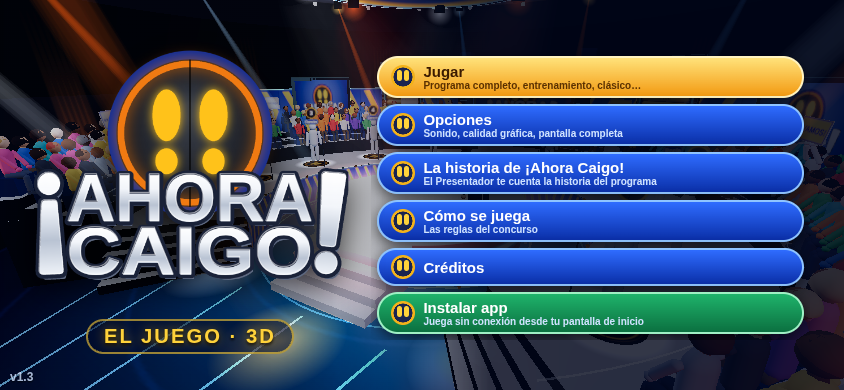
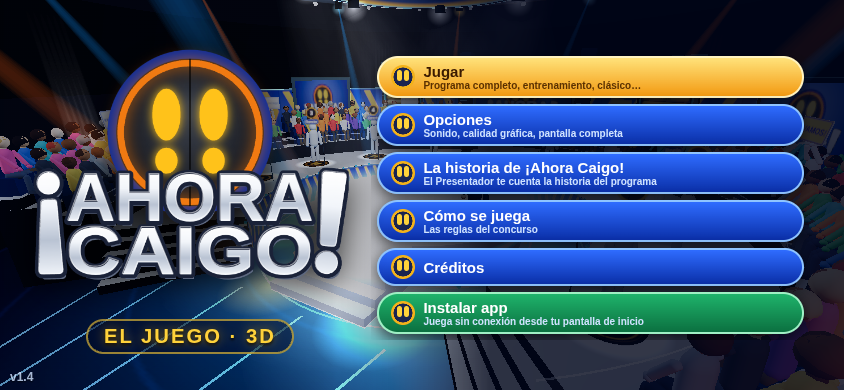
v1.4: nombre del presentador personalizable (Opciones › Concursantes)

diff --git a/src/main.ts b/src/main.ts
@@ -13,7 +13,7 @@ import { logoCanvas } from './logo';
 import { TOP } from './set3d';
 import { loadOpts, saveOpts, Opts } from './options';
 import { CREDITOS, VERSION, creditosFinal } from './credits';
-import { cons, RIVALES } from './concursantes';
+import { cons, RIVALES, PRESENTADOR_DEF } from './concursantes';
 import { historia, lineasHistoria } from './historia';
 import { lineasPruebas, lineasEleccion, planPruebas } from './pruebas';
 import { lineasVoz, VOCES } from './concursantes';
@@ -117,7 +117,7 @@ function showMenu(sc: Screen = 'main') {
     col.append(
       btn('Jugar', 'Programa completo, entrenamiento, clásico…', 'gold', () => showMenu('play')),
       btn('Opciones', 'Sonido, calidad gráfica, pantalla completa', '', () => showMenu('options')),
-      btn('La historia de ¡Ahora Caigo!', 'El Presentador te cuenta la historia del programa', 'hist', () => startMode('historia')),
+      btn('La historia de ¡Ahora Caigo!', `${cons.presentador} te cuenta la historia del programa`, 'hist', () => startMode('historia')),
       btn('Cómo se juega', 'Las reglas del concurso', '', () => showMenu('help')),
       btn('Créditos', '', '', () => showMenu('credits')),
     );
@@ -292,6 +292,7 @@ function opcionesConcursantes() {
   b.onclick = (e) => { e.stopPropagation(); audio.play('Tecla'); showMenu('concursantes'); };
   row.appendChild(b); box.append(n, row); return box;
 }
+const notaCentral = () => cons.presentador + ' te presentará al empezar el Programa completo. Tu nombre sale en el marcador del duelo y en los créditos.';
 /** Pantalla de edición de los concursantes (se guarda al escribir, solo en este dispositivo) */
 function pantallaConcursantes(col: HTMLElement) {
   const inp = (id: string, val: string, ph: string, max: number, on: (v: string) => void) => {
@@ -299,13 +300,23 @@ function pantallaConcursantes(col: HTMLElement) {
     i.autocomplete = 'off'; i.spellcheck = false; i.addEventListener('input', () => on(i.value)); i.addEventListener('keydown', e => { e.stopPropagation(); if (e.key === 'Enter') i.blur(); });
     i.addEventListener('pointerdown', e => e.stopPropagation()); return i;
   };
+  // presentador: solo cambia el nombre que se ve (la voz sigue siendo la sintética genérica y el aspecto 3D no cambia)
+  const hp = document.createElement('div'); hp.className = 'ocustom'; hp.id = 'optPresentador';
+  const ht = document.createElement('div'); ht.className = 'olabel'; ht.textContent = '🎤 El presentador';
+  const hr = document.createElement('div'); hr.className = 'orow ofield'; const hl = document.createElement('label'); hl.textContent = 'Nombre del presentador';
+  const hin = inp('inPresentador', cons.presentadorPropio ? cons.presentador : '', PRESENTADOR_DEF, 24, v => { cons.setPresentador(v); const e = document.querySelector('#optCentral .onote'); if (e) e.textContent = notaCentral(); });
+  const hrs = document.createElement('button'); hrs.className = 'tbtn'; hrs.id = 'btnResetPresentador'; hrs.textContent = '↺ Restablecer';
+  hrs.onclick = (e) => { e.stopPropagation(); audio.play('Tecla'); cons.resetPresentador(); hin.value = ''; const n = document.querySelector('#optCentral .onote'); if (n) n.textContent = notaCentral(); };
+  hr.append(hl, hin, hrs);
+  const hn = document.createElement('p'); hn.className = 'onote small'; hn.textContent = 'Sale en los bocadillos, los subtítulos de la historia, las presentaciones y los créditos. La voz sigue siendo la sintética genérica y no dice el nombre.';
+  hp.append(ht, hr, hn);
   const c = document.createElement('div'); c.className = 'ocustom'; c.id = 'optCentral';
   const ct = document.createElement('div'); ct.className = 'olabel'; ct.textContent = '⭐ El central (tú)';
   const r1 = document.createElement('div'); r1.className = 'orow ofield'; const l1 = document.createElement('label'); l1.textContent = 'Nombre';
   r1.append(l1, inp('inCentral', cons.central, 'Tu nombre', 18, v => cons.set('central', v)));
   const r2 = document.createElement('div'); r2.className = 'orow ofield'; const l2 = document.createElement('label'); l2.textContent = 'Profesión';
   r2.append(l2, inp('inProfesion', cons.profesion, 'Ej.: estudiante, youtuber, cocinero…', 60, v => cons.set('profesion', v)));
-  const cn = document.createElement('p'); cn.className = 'onote small'; cn.textContent = 'El Presentador te presentará al empezar el Programa completo. Tu nombre sale en el marcador del duelo y en los créditos.';
+  const cn = document.createElement('p'); cn.className = 'onote small'; cn.textContent = notaCentral();
   c.append(ct, r1, r2, cn);
   const o = document.createElement('div'); o.className = 'ocustom'; o.id = 'optRivales';
   const ot = document.createElement('div'); ot.className = 'olabel'; ot.textContent = '🎯 Los 10 oponentes';
@@ -318,19 +329,19 @@ function pantallaConcursantes(col: HTMLElement) {
     row.append(num, box); grid.appendChild(row);
   });
   o.append(ot, grid);
-  const pr = document.createElement('div'); pr.className = 'orow'; const pl = document.createElement('label'); pl.textContent = '🎙 Presentaciones con el Presentador';
+  const pr = document.createElement('div'); pr.className = 'orow'; const pl = document.createElement('label'); pl.textContent = '🎙 Presentaciones con el presentador';
   const pb = document.createElement('button'); pb.id = 'btnPresentaciones'; const upd = () => { pb.className = 'tbtn' + (cons.presentaciones ? ' sel' : ''); pb.textContent = cons.presentaciones ? 'Sí' : 'No'; };
   pb.onclick = (e) => { e.stopPropagation(); cons.setPresentaciones(!cons.presentaciones); upd(); audio.play('Tecla'); }; upd(); pr.append(pl, pb);
   const er = document.createElement('div'); er.className = 'orow'; const el = document.createElement('label'); el.textContent = '📱 Elección del central (tabletas)';
   const eb = document.createElement('button'); eb.id = 'btnEleccion'; const upe = () => { eb.className = 'tbtn' + (cons.eleccion ? ' sel' : ''); eb.textContent = cons.eleccion ? 'Sí' : 'No'; };
   eb.onclick = (e) => { e.stopPropagation(); cons.setEleccion(!cons.eleccion); upe(); audio.play('Tecla'); }; upe(); er.append(el, eb);
   const note = document.createElement('p'); note.className = 'mtext onote2';
-  note.textContent = 'Se guarda solo en este dispositivo. Los nombres salen en los rótulos de las trampillas, los bocadillos y los créditos. La voz del Presentador es sintética y genérica: las frases con nombres personalizados se leen en el bocadillo; si tu dispositivo tiene voz en español, tu nombre y profesión los dice esa voz.';
+  note.textContent = 'Se guarda solo en este dispositivo. Los nombres salen en los rótulos de las trampillas, los bocadillos y los créditos. La voz del presentador es sintética y genérica: las frases con nombres personalizados se leen en el bocadillo; si tu dispositivo tiene voz en español, tu nombre y profesión los dice esa voz.';
   const row = document.createElement('div'); row.className = 'mrow';
   const rs = document.createElement('button'); rs.className = 'tbtn'; rs.id = 'btnResetNombres'; rs.textContent = '↺ Nombres por defecto';
   rs.onclick = (e) => { e.stopPropagation(); audio.play('Tecla'); cons.reset(); showMenu('concursantes'); };
   row.append(rs, backBtn('options'));
-  col.append(c, o, pr, er, note, row);
+  col.append(hp, c, o, pr, er, note, row);
 }
 /** Botón «atrás» (Android): devuelve false si ya estamos en la portada */
 function back(): boolean {

diff --git a/src/concursantes.ts b/src/concursantes.ts
@@ -59,10 +59,12 @@ export const VOCES: Record<string, { model: string; spk?: number; len: number; p
 
 // ------------------------------------------------------------------ datos guardados
 const KEY = 'ac3d_concursantes';
-interface Datos { central: string; profesion: string; rivales: string[]; presentaciones: boolean; eleccion: boolean }
+interface Datos { central: string; profesion: string; rivales: string[]; presentaciones: boolean; eleccion: boolean; presentador: string }
+/** nombre del presentador por defecto (Opciones › Concursantes › Nombre del presentador) */
+export const PRESENTADOR_DEF = 'El Presentador';
 const limpia = (s: string, max = 18) => (s || '').replace(/[<>{}]/g, '').replace(/\s+/g, ' ').trim().slice(0, max);
 function cargar(): Datos {
-  const d: Datos = { central: '', profesion: '', rivales: RIVALES.map(r => r.def), presentaciones: true, eleccion: true };
+  const d: Datos = { central: '', profesion: '', rivales: RIVALES.map(r => r.def), presentaciones: true, eleccion: true, presentador: '' };
   try {
     const j = JSON.parse(localStorage.getItem(KEY) || '{}');
     if (typeof j.central === 'string') d.central = limpia(j.central);
@@ -70,6 +72,7 @@ function cargar(): Datos {
     if (Array.isArray(j.rivales)) j.rivales.slice(0, 10).forEach((n: any, i: number) => { const t = limpia(String(n ?? '')); if (t) d.rivales[i] = t; });
     if (typeof j.presentaciones === 'boolean') d.presentaciones = j.presentaciones;
     if (typeof j.eleccion === 'boolean') d.eleccion = j.eleccion;
+    if (typeof j.presentador === 'string') d.presentador = limpia(j.presentador, 24);
   } catch { }
   return d;
 }
@@ -81,6 +84,12 @@ export const cons = {
   get profesion() { return D.profesion; },
   get presentaciones() { return D.presentaciones; },
   get eleccion() { return D.eleccion; },
+  /** nombre del presentador que se muestra (bocadillos, subtítulos, créditos); por defecto «El Presentador» */
+  get presentador() { return D.presentador || PRESENTADOR_DEF; },
+  /** true si el jugador ha puesto un nombre propio al presentador */
+  get presentadorPropio() { return !!D.presentador && D.presentador !== PRESENTADOR_DEF; },
+  setPresentador(v: string) { D.presentador = limpia(v, 24); guardar(); },
+  resetPresentador() { D.presentador = ''; guardar(); },
   setEleccion(on: boolean) { D.eleccion = on; guardar(); },
   /** nombre para el marcador del duelo («Tú» si no hay nombre) */
   get tu() { return D.central || 'Tú'; },
@@ -90,7 +99,7 @@ export const cons = {
   set(k: 'central' | 'profesion', v: string) { D[k] = limpia(v, k === 'profesion' ? 60 : 18); guardar(); },
   setRival(n: number, v: string) { D.rivales[n - 1] = limpia(v) || RIVALES[n - 1].def; guardar(); },
   setPresentaciones(on: boolean) { D.presentaciones = on; guardar(); },
-  reset() { D = { central: D.central, profesion: D.profesion, rivales: RIVALES.map(r => r.def), presentaciones: D.presentaciones, eleccion: D.eleccion }; guardar(); },
+  reset() { D = { central: D.central, profesion: D.profesion, rivales: RIVALES.map(r => r.def), presentaciones: D.presentaciones, eleccion: D.eleccion, presentador: D.presentador }; guardar(); },
   onChange(f: () => void) { listeners.push(f); },
   /** solo para pruebas */ reload() { D = cargar(); listeners.forEach(f => f()); },
 };
@@ -169,7 +178,7 @@ function hostNombre(par: [string, string], nombre: string, pregen: boolean, reac
 export function guionRival(n: number, forzarArg?: boolean): Linea[] {
   const R = RIVALES[n - 1]; const nombre = cons.rival(n);
   const out: Linea[] = [hostNombre(turno('sal', SALUDOS), nombre, cons.esDef(n), 'aplauso')];
-  out.push(rival(n, turno('in' + n, R.intro)));
+  { const t = turno('in' + n, R.intro); const l = rival(n, t); if (cons.presentadorPropio) l.bubble = `¡Hola, ${cons.presentador}! ${t}`; out.push(l); }
   const arg = forzarArg ?? (argEnPartida === 0 ? Math.random() < 0.6 : Math.random() < 0.35);
   if (arg) {
     argEnPartida++;
@@ -193,7 +202,7 @@ export function guionCentral(): Linea[] {
   const out: Linea[] = [hostNombre(turno('csal', C_SALUDO), nombre, pre, 'vitores'), hostNombre(turno('cpre', C_PREG), nombre, pre)];
   if (prof) {
     const yo = nombre ? `¡Hola! Soy ${nombre} y me dedico a esto: ${prof}.` : `¡Hola! Me dedico a esto: ${prof}.`;
-    out.push({ who: 'central', bubble: yo, audio: [yo], tts: true });
+    out.push({ who: 'central', bubble: cons.presentadorPropio ? `¡Hola, ${cons.presentador}! ${yo.replace(/^¡Hola! /, '')}` : yo, audio: [yo], tts: true });
     const ch = turno('cch', C_CHISTES);
     out.push(host(`¿${cap(prof.replace(/[.!¡¿?]+$/g, ''))}? ${ch}`, [ch], 'risas'));
   } else out.push(host(C_MISTERIO, [C_MISTERIO], 'risas'));

diff --git a/src/hud.ts b/src/hud.ts
@@ -2,6 +2,7 @@ import * as THREE from 'three';
 import type { Engine } from './engine';
 import { voice, CLIPS } from './voice';
 import { audio } from './assets';
+import { cons } from './concursantes';
 
 const $ = (id: string) => document.getElementById(id)!;
 export const ABORT = new Error('abort');
@@ -24,7 +25,7 @@ export class Hud {
   hint(text: string | null) { const h = $('hint'); if (!text) h.classList.add('hidden'); else { h.innerHTML = text; h.classList.remove('hidden'); } }
   /** Bocadillo del Presentador sobre su cabeza (con voz). Se cierra tocándolo. Devuelve una promesa al cerrarse */
   private sayResolve: (() => void) | null = null; private subsToken = 0;
-  say(text: string, ms = 3200, who: THREE.Object3D | null = this.eng.host?.head || null, name = 'El Presentador', o: { voice?: boolean; audio?: string[]; voz?: string; tts?: boolean } = {}): Promise<void> {
+  say(text: string, ms = 3200, who: THREE.Object3D | null = this.eng.host?.head || null, name: string = cons.presentador, o: { voice?: boolean; audio?: string[]; voz?: string; tts?: boolean } = {}): Promise<void> {
     if (o.voice !== false) this.subsToken++;
     // audio: textos candidatos para la voz (p. ej. la frase con el nombre por defecto pregenerada, o la versión sin nombre)
     const v = o.voice === false ? { ms: 0 } : voice.say(o.audio || [text], { voz: o.voz, tts: o.tts });
@@ -45,7 +46,7 @@ export class Hud {
     for (const [a, b, text] of cues) {
       while (true) { const t = now(); if (tok !== this.subsToken || (music && t < 0)) return; if (t >= a) break; await new Promise(r => setTimeout(r, 60)); }
       if (now() > b) continue;
-      this.say(text, (b - now()) * 1000 + 250, who, 'El Presentador', { voice: false });
+      this.say(text, (b - now()) * 1000 + 250, who, cons.presentador, { voice: false });
     }
   }
   hideBubble() { $('bubble').classList.add('hidden'); this.bubbleTarget = null; const r = this.sayResolve; this.sayResolve = null; r?.(); }

diff --git a/src/credits.ts b/src/credits.ts
@@ -1,18 +1,16 @@
 import { cons, RIVALES } from './concursantes';
-export const VERSION = '1.3';
+export const VERSION = '1.4';
 // ======= Rótulos y créditos (editar aquí) =======
 export const CREDITOS = {
   hashtag: '#AhoraCaigo',
   /** Rótulos de la cabecera (se añade "Modo: <tema>") */
   cabecera: [
-    'Presentador: el Presentador virtual',
     'Juego creado por Iker',
     'Basado en el minijuego de Scratch',
     'Formato original: ¡Ahora Caigo! (Antena 3)',
   ],
   /** Columna de créditos del final */
   final: [
-    ['Presentador', ['El Presentador virtual']],
     ['Juego creado por', ['Iker']],
     ['Basado en', ['El minijuego de Scratch', '«¡Ahora Caigo!»']],
     ['Música y sonidos', ['Del minijuego de Scratch original']],
@@ -25,8 +23,11 @@ export const CREDITOS = {
 };
 
 /** Créditos finales con los concursantes de Opciones › Concursantes */
+export const presentadoPor = () => `${cons.presentador} (presentador virtual)`;
+/** Rótulos de la cabecera con el nombre del presentador */
+export const rotulosCabecera = () => ['Presentado por: ' + presentadoPor(), ...CREDITOS.cabecera];
 export function creditosFinal(): [string, string[]][] {
-  const out = [...CREDITOS.final];
+  const out: [string, string[]][] = [['Presentado por', [presentadoPor()]], ...CREDITOS.final];
   const c: [string, string[]][] = [];
   if (cons.central) c.push(['Concursante central', [cons.central + (cons.profesion ? ' · ' + cons.profesion : '')]]);
   c.push(['Oponentes', RIVALES.map((r, i) => `${i + 1}. ${cons.rival(i + 1)} · ${r.job}`)]);

diff --git a/src/duelo.ts b/src/duelo.ts
@@ -156,7 +156,7 @@ export async function duelo1v1(P: Programa, opp: number, o: { training?: boolean
 
   try {
     // empieza el oponente (como en el programa)
-    { const f = turn === 'bot' ? fraseNum('turnoBot', opp) : { bubble: pick(L.turnoTu), audio: undefined }; hud.say(f.bubble, 2200, eng.host.head, 'El Presentador', { audio: f.audio }); }
+    { const f = turn === 'bot' ? fraseNum('turnoBot', opp) : { bubble: pick(L.turnoTu), audio: undefined }; hud.say(f.bubble, 2200, eng.host.head, cons.presentador, { audio: f.audio }); }
     await s.w(1200);
     let carry: Q | null = null;
     while (true) {
@@ -164,7 +164,7 @@ export async function duelo1v1(P: Programa, opp: number, o: { training?: boolean
       const q = carry || newQ(); carry = null;
       if (turn === 'bot') {
         const r = await botTurn(q);
-        if (r === 'tiempo') { running = false; bar.out('bot'); log('bot-tiempo'); audio.stopTag('clock'); panel.stopInput(); audio.play('DropM.mp3'); await panel.reveal(); { const f = fraseNum('botTiempo', opp); hud.say(f.bubble, 2200, eng.host.head, 'El Presentador', { audio: f.audio }); } await s.w(1200); return 'win'; }
+        if (r === 'tiempo') { running = false; bar.out('bot'); log('bot-tiempo'); audio.stopTag('clock'); panel.stopInput(); audio.play('DropM.mp3'); await panel.reveal(); { const f = fraseNum('botTiempo', opp); hud.say(f.bubble, 2200, eng.host.head, cons.presentador, { audio: f.audio }); } await s.w(1200); return 'win'; }
         turn = 'me';
       } else {
         const r = await meTurn(q);

diff --git a/src/intro.ts b/src/intro.ts
@@ -4,7 +4,7 @@ import { Hud, Session, ABORT } from './hud';
 import { audio } from './assets';
 import { canvasTex } from './tex';
 import { logoCanvas, LOGO_PAL, bangPath, metalFill, drawBadge } from './logo';
-import { CREDITOS, creditosFinal } from './credits';
+import { CREDITOS, creditosFinal, rotulosCabecera } from './credits';
 import { TOP } from './set3d';
 import { gesture } from './people';
 import { confettiBurst } from './decor';
@@ -59,7 +59,7 @@ export async function cabecera(eng: Engine, hud: Hud, main: Session, extraDramat
       // el público da palmas al ritmo de la música durante los planos del dron
       publico.ritmo(CAB_MUSIC, HIT.corte + 0.2, HIT.fin - 0.3, 0.5);
       hud.hashtag(eng.theme.hashtag || CREDITOS.hashtag);
-      const lines = [...CREDITOS.cabecera, 'Modo: ' + eng.theme.name];
+      const lines = [...rotulosCabecera(), 'Modo: ' + eng.theme.name];
       if (eng.theme.banner) lines.unshift(eng.theme.banner);
       const b = eng.studio.prizeBoards[0]; const bp = b ? b.position.clone() : V3(-7, 3.7, -9.5);
       const bIn = bp.clone().multiplyScalar(0.62).setY(3.5), bIn2 = bp.clone().multiplyScalar(0.8).setY(3.6);

diff --git a/src/presentaciones.ts b/src/presentaciones.ts
@@ -53,7 +53,7 @@ export async function presentarRival(c: Ctx, n: number) {
   const lineas = guionRival(n, W.__presArg);
   const nombre = cons.rival(n);
   await correr(c, lineas,
-    l => l.who === 'host' ? { p: eng.host, name: 'El Presentador' } : { p: o, name: nombre },
+    l => l.who === 'host' ? { p: eng.host, name: cons.presentador } : { p: o, name: nombre },
     (l) => {
       if (l.who === 'host') camHost(c, op);
       else { // plano del oponente desde el lado del presentador
@@ -72,7 +72,7 @@ export async function presentarCentral(c: Ctx) {
   const lineas = guionCentral();
   const nombre = cons.central;
   await correr(c, lineas,
-    l => l.who === 'central' ? { p: pl, name: nombre || 'Concursante' } : { p: eng.host, name: 'El Presentador' },
+    l => l.who === 'central' ? { p: pl, name: nombre || 'Concursante' } : { p: eng.host, name: cons.presentador },
     (l, i) => {
       if (l.who === 'central' || i === 0) {
         const pp = pl.root.position, hp = eng.host.root.position; const d = hp.clone().sub(pp).setY(0).normalize(); const side = V(-d.z, 0, d.x);

diff --git a/src/pruebas.ts b/src/pruebas.ts
@@ -517,7 +517,7 @@ export async function eleccionCentral(c: Ctx): Promise<{ ganador: number; tiempo
     await s.w(800); panel.hideAll(300);
     gesture(eng.host, 'habla', 3);
     if (ganador === 0) { publico.vitores(3); audio.play('QuemFicaEmPé-Acerto'); d = false; hud.say(EL.tu, 3000).then(() => { d = true; }); }
-    else if (ganador > 0) { publico.risas(); setTimeout(() => publico.aplauso(3, 0.7), 800); d = false; hud.say(EL.bot[0].replace('{nombre}', names[ganador]), 3500, eng.host.head, 'El Presentador', { audio: [EL.bot[1]] }).then(() => { d = true; }); }
+    else if (ganador > 0) { publico.risas(); setTimeout(() => publico.aplauso(3, 0.7), 800); d = false; hud.say(EL.bot[0].replace('{nombre}', names[ganador]), 3500, eng.host.head, cons.presentador, { audio: [EL.bot[1]] }).then(() => { d = true; }); }
     else { publico.risas(); d = false; hud.say(EL.nadie, 3000).then(() => { d = true; }); }
     await s.until(() => d); await s.w(400);
     return { ganador, tiempos };

diff --git a/src/historia.ts b/src/historia.ts
@@ -9,6 +9,7 @@ import { voice } from './voice';
 import { audio } from './assets';
 import { publico } from './publico';
 import { TOP } from './set3d';
+import { cons } from './concursantes';
 
 const V = (x: number, y: number, z: number) => new THREE.Vector3(x, y, z);
 type Card =
@@ -142,7 +143,7 @@ export async function historia(c: Ctx, desde = 0) {
       go = null;
       for (let j = 0; j < C.narr.length && go == null && !terminar; j++) {
         W.__historia.linea = j; skipLine = false;
-        const t = C.narr[j]; $('hSub').innerHTML = `<b>El Presentador</b><span>${esc(t)}</span>`; $('hSub').classList.add('on');
+        const t = C.narr[j]; $('hSub').innerHTML = `<b>${esc(cons.presentador)}</b><span>${esc(t)}</span>`; $('hSub').classList.add('on');
         gesture(eng.host, 'habla', 2.5);
         const v = voice.speak(t); const t0 = performance.now(); let fin = false; v.done.then(() => { fin = true; });
         const read = 1200 + t.length * 45;

diff --git a/src/show.ts b/src/show.ts
@@ -257,7 +257,7 @@ export class Programa {
     const o = eng.opps[opp - 1];
     eng.studio.setHoleColor(opp, eng.theme.accent);
     cams.opp(eng, opp); gesture(o, 'saluda', 1.4);
-    { const f = fraseNum('elegidoT', opp); let d = false; hud.say(f.bubble, 2500, eng.host.head, 'El Presentador', { audio: f.audio }).then(() => { d = true; });
+    { const f = fraseNum('elegidoT', opp); let d = false; hud.say(f.bubble, 2500, eng.host.head, cons.presentador, { audio: f.audio }).then(() => { d = true; });
       // charla del presentador con el oponente elegido (se puede saltar)
       if (cons.presentaciones) { await s.until(() => d); await presentarRival(this.c, opp); } else await s.until(() => d); }
     // ---- prueba del duelo: rótulo en la pantalla grande ----

diff --git a/src/style.css b/src/style.css
@@ -365,3 +365,7 @@ body.kb-open #duelBar { top: 2px; transform: translateX(-50%) scale(.85); transf
 #dl .dlin .dlpaso { background: linear-gradient(#6f86b8, #3a4f80); border-color: #cfd8ea; }
 #dl:not(.guess) .dlin button, #dl:not(.mine) .dlin button { display: none; }
 #dl:not(.mine) .dlin input { display: none; }
+
+#menu #optPresentador .ofield { flex-wrap: wrap; gap: 6px 8px; }
+#menu #optPresentador .ofield label { flex: 1 0 100%; }
+#menu #optPresentador .ofield input { flex: 1 1 auto; min-width: 0; }

diff --git a/index.html b/index.html
@@ -8,7 +8,7 @@
 <meta name="apple-mobile-web-app-capable" content="yes">
 <link rel="manifest" href="manifest.webmanifest">
 <link rel="icon" href="icon-192.png">
-<meta name="app-version" content="1.3">
+<meta name="app-version" content="1.4">
 <title>¡Ahora Caigo! 3D</title>
 </head>
 <body>
